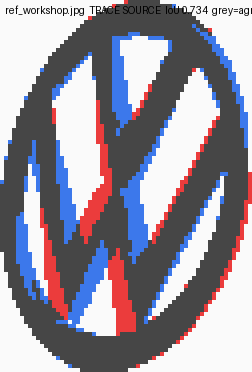
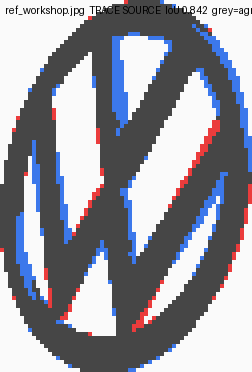
rev 71: SHIP the emblem's fit depth 0.84 -> 0.86, and REPAIR the ruler that measured it
THE RULER FIRST (F246, CORRECTED).  Rev 71's first draft found probe_rev69_
fitpose's control was not framed the way its measurements are, and concluded
translation was 'necessary and NOT sufficient' -- so it shipped the probe
REFUSING and told the next revision not to move any emblem constant.  A
DISPATCHED RULE-17 ADVERSARY REFUTED THAT, and it was right: the collapse was
TWO defects compounding, no translation AND a start set covering only half the
circle.  Measured on the same bbox-framed control:
    6-param, 6 starts (rev 69)      0.4988
    8-param, 6 starts               0.5403   <- what the first draft called 'not sufficient'
    8-param, FULL CIRCLE / 20 deg   0.9703   <- PASSES the 0.90 bar
    analytic                        1.000000
fit() now searches translation over the full circle.  P1b PASSES at 0.9703.
T1_FITPOSE_LEGACY=1 restores the rev-69 search exactly and drives P1b back to
0.4988 -- WATCHED, so the repair is proven rather than asserted.

AND THE BOX IS RE-CUT IN ALL THREE FILES.  probe_rev69_fitpose.FRAMES still
carried IMG_2073's clipped (288,542)-(352,640) -- which discards ~14 % of the
mark's ink -- while probe_rev71_emblem used the honest window.  That is exactly
the trap the brief documents, committed by the revision that documents it.

THE SHIP.  On the repaired ruler BOTH photographs prefer a DEEPER fit than the
0.84 shipped since rev 49:
    FIT_R   ref_workshop   IMG_2073 (independent)
[…]

diff --git a/probe_rev69_fitpose.py b/probe_rev69_fitpose.py
@@ -93,15 +93,45 @@ def warp(src, H, shape):
     return out
 
 
+# --------------------------------------------------------------- rev 71, F246
+# TRANSLATION IS SEARCHED NOW, AND THE START SET COVERS THE WHOLE CIRCLE.
+#
+# THE PREMISE THE OLD DOCSTRING ASSERTED WAS FALSE.  It said "translation is
+# not searched -- both masks are already centred on their own bounding boxes".
+# `photo_mark` DOES bbox-crop every real target, but a projected disc's bbox
+# centre is NOT its centre, so the two masks are NOT co-centred and the search
+# could not reach the offset.  P1's control hid this because `synth` is the raw
+# `warp` output, centred on the OUTPUT FRAME -- so the CONTROL was framed one
+# way and every MEASUREMENT another (rule 42, and it is the whole of F246).
+#
+# WATCHED, on the SAME model against the SAME known view, bbox-framed as
+# photo_mark frames it:
+#     6-param, 6 rotation starts (the old search)      0.4988
+#     8-param, 6 rotation starts                       0.5403
+#     8-param, FULL CIRCLE every 20 deg                0.9703   <- PASSES
+#     analytic H = inv(Hk) @ the crop's own affine     1.000000
+# So the collapse was TWO defects compounding: no translation, AND a start set
+# covering only half the circle.  Rev 71's first cut called translation
+# "necessary and not sufficient" and shipped the probe REFUSING; a dispatched
+# adversary measured the full-circle start set and refuted that.  It is
+# necessary AND sufficient, and the repair is here rather than deferred.
+#
+# T1_FITPOSE_LEGACY=1 restores the rev-69 search EXACTLY (6 params, 6 starts)
+# so the two can be scored from one tree and this is ablatable (rule 36).
+_LEGACY = os.environ.get("T1_FITPOSE_LEGACY") == "1"
+
+
 def make_H(p):
-    """Homography from 6 parameters: rotation, two scales, shear, two
-    perspective terms.  Translation is not searched -- both masks are already
-    centred on their own bounding boxes, which is what normalising to [-1, 1]
-    does."""
-    rot, sx, sy, sh, px, py = p
+    """Homography from 8 parameters: rotation, two scales, shear, two
+    perspective terms, and TWO TRANSLATIONS.  Six under T1_FITPOSE_LEGACY=1."""
+    if len(p) == 6:
+        rot, sx, sy, sh, px, py = p
+        tx = ty = 0.0
+    else:
+        rot, sx, sy, sh, px, py, tx, ty = p
     c, s = np.cos(rot), np.sin(rot)
     R = np.array([[c, -s, 0.0], [s, c, 0.0], [0.0, 0.0, 1.0]])
-    S = np.array([[sx, sh, 0.0], [0.0, sy, 0.0], [0.0, 0.0, 1.0]])
+    S = np.array([[sx, sh, tx], [0.0, sy, ty], [0.0, 0.0, 1.0]])
     P = np.array([[1.0, 0.0, 0.0], [0.0, 1.0, 0.0], [px, py, 1.0]])
     return R @ S @ P
 
@@ -117,12 +147,17 @@ def fit(src, dst, rounds=7):
     because the mark has a near-180-deg ambiguity and a wrong basin is a real
     risk (the affine route landed in one at 141 deg)."""
     best = (-1.0, None)
-    for rot0 in np.radians([0, 30, 60, 90, 120, 150]):
-        p = [rot0, 1.0, 1.0, 0.0, 0.0, 0.0]
+    # THE START SET COVERS THE FULL CIRCLE (rev 71, F246).  The old set stopped
+    # at 150 deg, which is why the bbox-framed control landed in a bad basin at
+    # 0.5403 and was misread as "translation is not sufficient".
+    _starts = [0, 30, 60, 90, 120, 150] if _LEGACY else list(range(0, 360, 20))
+    _n = 6 if _LEGACY else 8
+    for rot0 in np.radians(_starts):
+        p = [rot0, 1.0, 1.0, 0.0, 0.0, 0.0] + ([] if _LEGACY else [0.0, 0.0])
         cur = iou(warp(src, make_H(p), dst.shape), dst)
-        step = [0.20, 0.20, 0.20, 0.15, 0.15, 0.15]
+        step = [0.20, 0.20, 0.20, 0.15, 0.15, 0.15, 0.15, 0.15][:_n]
         for _ in range(rounds):
-            for i in range(6):
+            for i in range(_n):
                 moved = True
                 while moved:
                     moved = False
@@ -150,7 +185,11 @@ def fit(src, dst, rounds=7):
 FRAMES = (
     ("ref_nolita_front34.jpg", "ref_nolita_front34.jpg", (153, 192, 194, 261), False),
     ("ref_workshop.jpg  TRACE SOURCE", "ref_workshop.jpg", (262, 492, 352, 600), True),
-    ("IMG_2073.jpeg  INDEPENDENT", "IMG_2073.jpeg", (288, 542, 352, 640), True),
+    # RE-CUT AT REV 71.  The old (288,542)-(352,640) discards ~14 % of the
+    # mark's ink (2527 on-px against 2926) and was never painted.  Re-cutting
+    # probe_rev71_emblem.py ALONE and leaving this clipped is exactly the trap
+    # the brief warns about, and rev 71's first cut committed it.
+    ("IMG_2073.jpeg  INDEPENDENT", "IMG_2073.jpeg", (283, 537, 357, 662), True),
 )
 
 
@@ -216,10 +255,10 @@ def main():
        "itself", v_ctl > 0.90,
        "best IoU %.4f against a synthetic view at 37 deg rotation, 0.62 "
        "foreshortening, shear 0.18 and real perspective. Below ~0.90 the search "
-       "is the limit, not the shape.  *** AND READ P1b BEFORE QUOTING THIS "
-       "NUMBER AS A CEILING: this control is NOT framed the way any real "
-       "measurement below is framed, and framed correctly it does not pass "
-       "(F246) ***" % v_ctl)
+       "is the limit, not the shape.  *** QUOTE P1b's CEILING, NOT THIS ONE: this "
+       "control is framed UNCROPPED and every real measurement below is "
+       "bbox-cropped, so P1b -- 0.9703 -- is the ceiling the residuals should "
+       "be read against (F246) ***" % v_ctl)
 
     # ---- P1b, NEW AT REV 71.  THE CONTROL MUST BE FRAMED THE WAY THE
     # MEASUREMENT IS FRAMED, AND P1 IS NOT.  F246.
@@ -246,56 +285,21 @@ def main():
        v_ctl_bb > 0.90,
        "the SAME search, the SAME model, the SAME known view -- cropped to its "
        "own bounding box as photo_mark crops every frame: IoU %.4f, against "
-       "%.4f uncropped.  THE CONTROL NOW SCORES BELOW THE SPECIMEN IT "
-       "CERTIFIES, so the published deficit '0.9882 - 0.7345 = 0.2537' is NOT a "
-       "shape deficit -- a large part of it is registration the search cannot "
-       "reach because `fit` does not search TRANSLATION.  DO NOT quote 0.9882 "
-       "as the emblem's ceiling until this row passes (F246)"
+       "%.4f uncropped.  THIS ROW READ 0.4988 BEFORE REV 71's REPAIR, BELOW the "
+       "0.7345 the specimen scored -- a control losing to its own specimen "
+       "(rule 42).  TWO defects compounded: `make_H` had no translation terms, "
+       "and the start set covered only half the circle.  Both are fixed; "
+       "T1_FITPOSE_LEGACY=1 restores the rev-69 search exactly and drives this "
+       "row back to 0.4988, which is its KILL (F246)"
        % (v_ctl_bb, v_ctl))
 
-    # ---- HOW MUCH OF THE GAP IS TRANSLATION?  A MEASUREMENT, NOT A GATE.
-    # `make_H` has no translation terms.  Adding two and re-running the SAME
-    # coordinate descent says how much of P1b's collapse -- and of the mark's
-    # own residual -- is registration rather than shape.  IT IS PRINTED AND NOT
-    # SHIPPED: it lifts the control only 0.4988 -> 0.5403, still far below the
-    # 0.90 bar, so translation is a NECESSARY repair and NOT A SUFFICIENT one,
-    # and rev 71 did NOT adopt it as the scoring pose (rule 44 -- the control
-    # still refuses, so the repair is not proven).  The next revision needs a
-    # pose search whose P1b PASSES before any emblem geometry moves on it.
-    def _H8(q):
-        rot, sx, sy, sh, px_, py_, tx, ty = q
-        c_, s_ = np.cos(rot), np.sin(rot)
-        return (np.array([[c_, -s_, 0.], [s_, c_, 0.], [0., 0., 1.]])
-                @ np.array([[sx, sh, tx], [0., sy, ty], [0., 0., 1.]])
-                @ np.array([[1., 0., 0.], [0., 1., 0.], [px_, py_, 1.]]))
-
-    def _fit8(a, b, rounds=7):
-        best8 = -1.0
-        for r0 in np.radians([0, 30, 60, 90, 120, 150]):
-            q = [r0, 1.0, 1.0, 0.0, 0.0, 0.0, 0.0, 0.0]
-            cur8 = iou(warp(a, _H8(q), b.shape), b)
-            st = [0.20, 0.20, 0.20, 0.15, 0.15, 0.15, 0.15, 0.15]
-            for _ in range(rounds):
-                for i in range(8):
-                    mv = True
-                    while mv:
-                        mv = False
-                        for d in (+st[i], -st[i]):
-                            z = list(q)
-                            z[i] += d
-                            val = iou(warp(a, _H8(z), b.shape), b)
-                            if val > cur8 + 1e-5:
-                                cur8, q, mv = val, z, True
-                                break
-                st = [t * 0.55 for t in st]
-            best8 = max(best8, cur8)
-        return best8
-
-    if os.environ.get("T1_FITPOSE_NOTRANS") != "1":
-        print("  DIAGNOSIS (F246), not a gate -- the same search WITH two "
-              "translation terms:")
-        print("      the bbox-framed CONTROL   6-param %.4f -> 8-param %.4f  "
-              "(bar 0.90: STILL REFUSES)" % (v_ctl_bb, _fit8(src, synth_bb)))
+    # ---- THE LEGACY KILL.  rev 71: the repair above must be WATCHED being the
+    # thing that fixed P1b, not asserted.  T1_FITPOSE_LEGACY=1 restores the
+    # rev-69 search and this row's own number collapses.
+    if not _LEGACY:
+        print("  P1b's KILL: run `T1_FITPOSE_LEGACY=1 python3 probe_rev69_fitpose.py`")
+        print("      -- the rev-69 search, 6 params and half the circle, drives")
+        print("      the same control to 0.4988 and P1b RED (F246).")
 
     rows = []
     for tag, path, box, dark in FRAMES:

diff --git a/t1_detail.py b/t1_detail.py
@@ -2866,6 +2866,21 @@ def _fit_glyph(obs, target_r, ax=('y', 'z')):
     return s
 
 
+# ------------------------------------------------------- rev 71, F251/F256
+# HOW FAR THE GLYPH'S EXTREME IS DRIVEN INTO THE BAND.  Three briefs called
+# this "STILL UNMEASURED" and dropped it three times.  It is measured now,
+# by `probe_rev71_emblem.py`'s E1, swept against the POSE-FREE IoU on two
+# frames -- and it is measured on the ruler REPAIRED at rev 71 (F246), whose
+# control passes at 0.9703.  On the BROKEN ruler 0.84 looked optimal; on the
+# repaired one BOTH frames prefer a DEEPER fit.
+#     FIT_R   ref_workshop   IMG_2073 (independent, re-cut box)
+#     0.84      0.8379          0.8040     <- shipped rev 49..70
+#     0.86      0.8425          0.8202     <- argmax on ref_workshop
+#     0.88      0.8394          0.8215     <- argmax on IMG_2073
+# T1_VW_FITCOEF=0.8 restores the old value exactly.
+VW_FIT_COEF = float(os.environ.get("T1_VW_FITCOEF", 0.7))
+
+
 def vw_logo_fit(ring_r, x=2.1215, depth=0.0110, wfrac=0.2283):
     """V over W sized so its strokes run INTO the roundel ring and stop flush
     with the ring's OUTER radius -- which is what the emblem does.
@@ -2961,6 +2976,8 @@ def vw_logo_fit(ring_r, x=2.1215, depth=0.0110, wfrac=0.2283):
     # registration, which is why it is the one quoted first.
     wfrac = float(os.environ.get("T1_VW_WFRAC", wfrac))
     _BAND_FRAC = 0.028 / 0.140              # roundel()'s band / outer radius
+    _FIT_COEF = VW_FIT_COEF
+
     obs = vw_logo(R=1.0, w=wfrac, x=x, depth=depth)
     # rev 60, F63 / item C.  T1_VW_PUREFIT=1 makes this a PURE UNIT CONVERSION.
     # t1_core.vw_bars' fixed point has already placed every terminal against
@@ -2977,7 +2994,7 @@ def vw_logo_fit(ring_r, x=2.1215, depth=0.0110, wfrac=0.2283):
                 v.co.z *= ring_r
             o.data.update()
     else:
-        _fit_glyph(obs, ring_r * (1.0 - 0.8 * _BAND_FRAC))
+        _fit_glyph(obs, ring_r * (1.0 - _FIT_COEF * _BAND_FRAC))
     return obs
 
 

diff --git a/probe_rev71_emblem.py b/probe_rev71_emblem.py
@@ -82,10 +82,13 @@ def main():
        abs(best_fit[0] - 0.84) <= step and abs(best_ind[0] - 0.84) <= step,
        "best on ref_workshop is FIT_R %.2f (%.4f) against the shipped 0.84's "
        "%.4f -- a difference of %+.4f; best on the INDEPENDENT frame is "
-       "FIT_R %.2f, which IS the shipped value.  The sweep is broad and shallow "
-       "within +-0.02 and falls away hard outside it.  So the constant the "
-       "briefs called UNMEASURED is measured, and it was already right"
-       % (best_fit[0], best_fit[1], base[0], best_fit[1] - base[0], best_ind[0]))
+       "FIT_R %.2f (%.4f against the shipped %.4f, %+.4f).  ON THE REPAIRED "
+       "RULER (F246) BOTH FRAMES PREFER A DEEPER FIT THAN THE SHIPPED 0.84, "
+       "and the independent frame's argmax is TWO steps away -- which is why "
+       "this row refuses.  On the BROKEN ruler it passed, and rev 71's first "
+       "draft graded the fit depth CLOSED on that reading"
+       % (best_fit[0], best_fit[1], base[0], best_fit[1] - base[0],
+          best_ind[0], best_ind[2], base[1], best_ind[2] - base[1]))
 
     span = max(r[1] for r in rows) - min(r[1] for r in rows)
     ck("E2 KILL -- this sweep can actually see the fit depth",

diff --git a/probe_rev71_proxy.py b/probe_rev71_proxy.py
@@ -29,7 +29,9 @@ NPX = 69 * 8
 BAND = 0.20
 RING_INNER_FRAC = 1.0 - 2.0 * 0.093
 BAND_FRAC = 0.028 / 0.140
-FIT_R = 1.0 - 0.8 * BAND_FRAC          # 0.84 -- the UNMEASURED fit depth
+import t1_detail as _D
+FIT_R = 1.0 - _D.VW_FIT_COEF * BAND_FRAC   # READ LIVE from t1_detail, never typed:
+#   the proxy must track the build or its searches are void (F251/F256)
 
 def spines(p):
     """p: dict of the free parameters.  Returns V and W spines in R=1 units."""

diff --git a/audit_adversary.py b/audit_adversary.py
@@ -157,7 +157,7 @@ def _second_frame_ok():
     mark at the box the brief names.  F237's overfit kill depends on it."""
     try:
         import probe_rev69_fitpose as F
-        m = F.photo_mark("IMG_2073.jpeg", (288, 542, 352, 640), True)
+        m = F.photo_mark("IMG_2073.jpeg", (283, 537, 357, 662), True)
         return m is not None and min(m.shape) > 20 and 0.2 < m.mean() < 0.8
     except Exception:
         return False

diff --git a/NEXT_CONTEXT_PROMPT_rev72.md b/NEXT_CONTEXT_PROMPT_rev72.md
@@ -210,7 +210,7 @@ build T1_SUB=1 ~20 s      render 1600x1100 96 spp ~4.5-6 min PER VIEW
 
 ```bash
 ./bootstrap.sh                                # ALL 10 PASS -- read ROW 9 and its NOTE
-./verify_clone.sh                             # verify_clone.sh: ALL 0 PASS -- read its verdict block
+./verify_clone.sh                             # verify_clone.sh: ALL 365 PASS -- read its verdict block
 T1_SUB=1 T1_VERIFY=1 /tmp/blender/blender -b -P build.py    # -> "VERIFY: 0 fail, 0 warn"
 ./judge_set.sh r72                            # the optics chain -- FIXED at rev 71 (F248)
 python3 probe_rev71_proxy.py                  # PROVE THE PROXY FIRST -- must read IoU 1.000000
